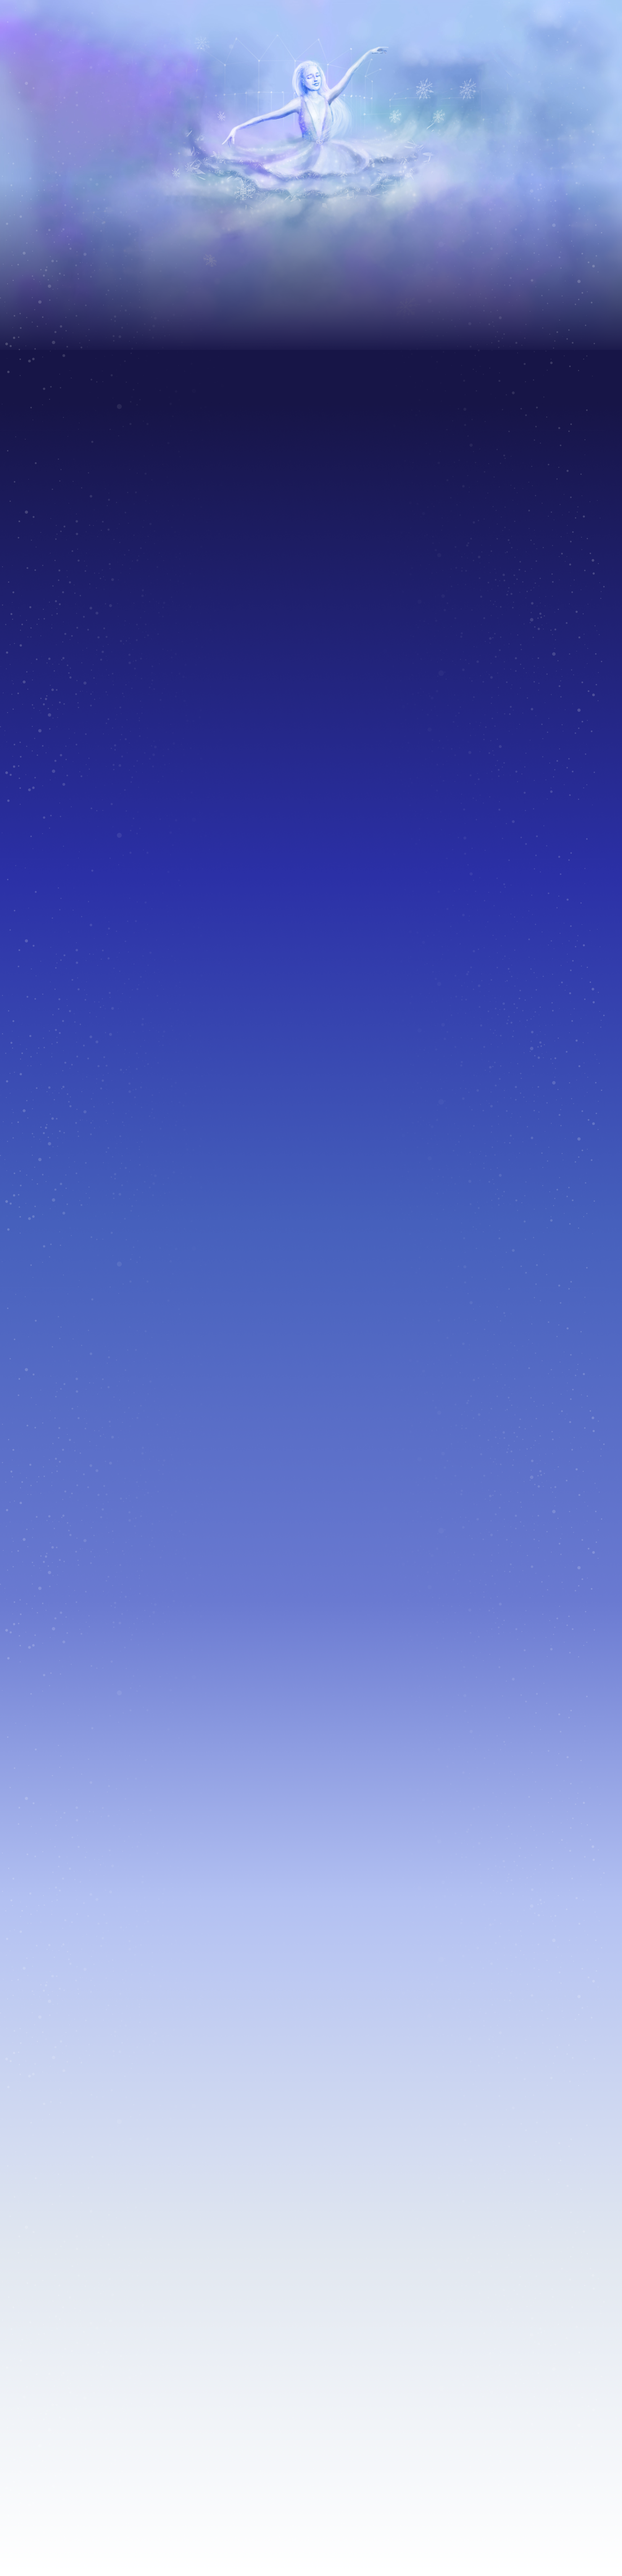
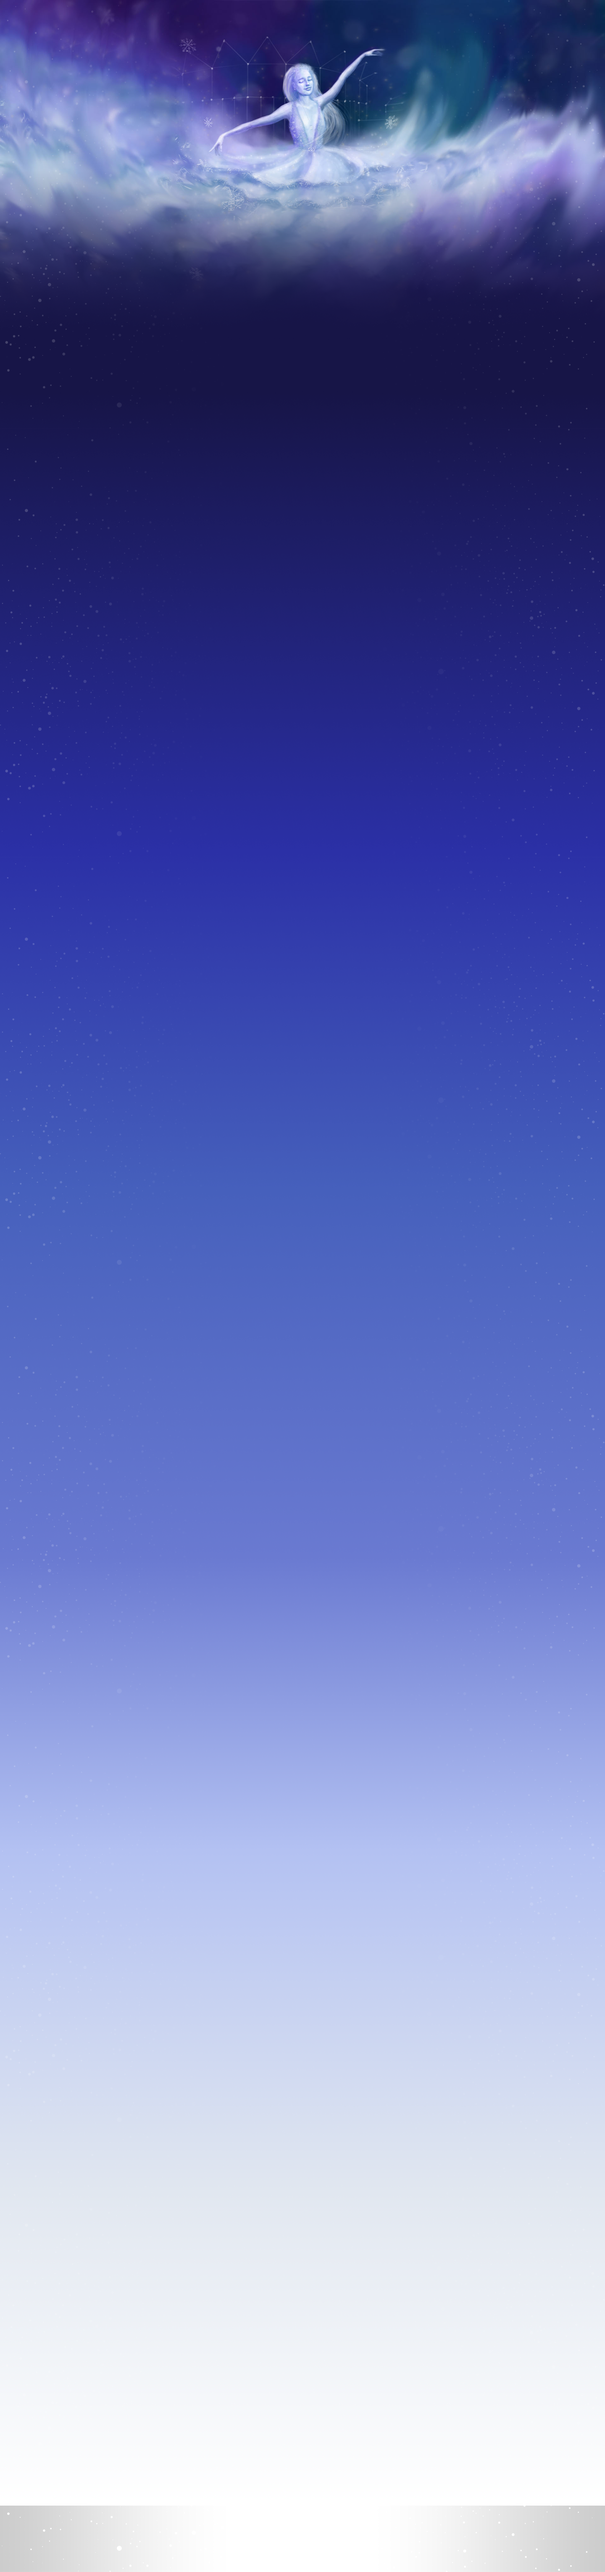
Feature snowing (#7)
* Add snowing effect

* Replace background with dark one

* Get back tablet background & change navbar color

Changed region(s): [[0.0, 0.0, 1.0, 0.156], [0.8125, 0.9675, 1.0, 1.0], [0.0, 0.9675, 0.1875, 1.0]]

diff --git a/src/App.tsx b/src/App.tsx
@@ -1,24 +1,25 @@
-import './App.css';
-import Fold from './components/layout/Fold';
-import Footer from './components/layout/footer/Footer';
-import HamburgerMenu from './components/layout/navbar/hamburgerMenu/HamburgerMenu';
-import Navbar from './components/layout/navbar/Navbar';
-import { WrapperMain } from './components/layout/wrapper/Wrapper.styled';
-import Contact from './sections/contact/Contact';
-import Events from './sections/events/Events';
-import Intro from './sections/intro/Intro';
-import Organisers from './sections/organisers/Organisers';
-import Partners from './sections/partners/Partners';
-import Prime from './sections/prime/Prime';
-import Countdown from './sections/countdown/Countdown';
-import Program from './sections/program/Program';
-import Tickets from './sections/tickets/Tickets';
-import { LteTablet } from './theme/MediaQueries';
+import "./App.css";
+import Fold from "./components/layout/Fold";
+import Footer from "./components/layout/footer/Footer";
+import HamburgerMenu from "./components/layout/navbar/hamburgerMenu/HamburgerMenu";
+import Navbar from "./components/layout/navbar/Navbar";
+import { WrapperMain } from "./components/layout/wrapper/Wrapper.styled";
+import Contact from "./sections/contact/Contact";
+import Events from "./sections/events/Events";
+import Intro from "./sections/intro/Intro";
+import Organisers from "./sections/organisers/Organisers";
+import Partners from "./sections/partners/Partners";
+import Prime from "./sections/prime/Prime";
+import Countdown from "./sections/countdown/Countdown";
+import Program from "./sections/program/Program";
+import Tickets from "./sections/tickets/Tickets";
+import { LteTablet } from "./theme/MediaQueries";
+import Snowing from "./components/snowing/Snowing";
 
 // import CookieConsent from 'react-cookie-consent';
 
-import reveal from './functions/reveal';
-window.addEventListener('scroll', reveal);
+import reveal from "./functions/reveal";
+window.addEventListener("scroll", reveal);
 
 function App() {
   return (
@@ -27,11 +28,12 @@ function App() {
       <Fold />
       <LteTablet>
         <HamburgerMenu
-          pageWrapId={'page-wrap'}
-          outerContainerId={'outer-container'}
+          pageWrapId={"page-wrap"}
+          outerContainerId={"outer-container"}
         />
       </LteTablet>
       <Navbar />
+      <Snowing />
       <Prime />
       <Countdown endTime='2023-03-03T15:00:00' />
       <Intro />

diff --git a/src/sections/contact/Contact.styled.tsx b/src/sections/contact/Contact.styled.tsx
@@ -1,5 +1,5 @@
-import styled from 'styled-components';
-import theme from '../../theme/theme';
+import styled from "styled-components";
+import theme from "../../theme/theme";
 
 export const WrapperContact = styled.div`
   display: flex;
@@ -14,7 +14,8 @@ export const WrapperContactItem = styled.div`
   line-height: 1.5em;
   gap: 2em;
   font-size: ${theme.fontSizeElements.paragraphGteTablet}px;
-  color: ${theme.colors.secondary};
+
+  color: ${theme.colors.dark};
   @media screen and (${theme.breakpoints.gteDesktopLgQuery}) {
     color: ${theme.colors.ice};
   }
@@ -45,7 +46,7 @@ export const ContactHalf = styled.span`
 export const ContactItem = styled.div``;
 
 export const ContactAction = styled.a`
-  color: ${theme.colors.secondary};
+  color: ${theme.colors.dark};
   @media screen and (${theme.breakpoints.gteDesktopLgQuery}) {
     color: ${theme.colors.ice};
   }

diff --git a/src/main.tsx b/src/main.tsx
@@ -1,10 +1,10 @@
-import React from 'react'
-import ReactDOM from 'react-dom/client'
-import App from './App'
-import './index.css'
+import React from "react";
+import ReactDOM from "react-dom/client";
+import App from "./App";
+import "./index.css";
 
-ReactDOM.createRoot(document.getElementById('root') as HTMLElement).render(
+ReactDOM.createRoot(document.getElementById("root") as HTMLElement).render(
   <React.StrictMode>
     <App />
-  </React.StrictMode>,
-)
+  </React.StrictMode>
+);

diff --git a/src/components/snowing/Snowing.tsx b/src/components/snowing/Snowing.tsx
@@ -1,0 +1,22 @@
+import Snowfall from "react-snowfall";
+import snowLogo from "../../assets/images/snowflake.png";
+
+const snowflake = document.createElement("img");
+snowflake.src = snowLogo;
+const snowingImg = [snowflake];
+
+const Snowing = () => {
+  return (
+    <>
+      <Snowfall
+        snowflakeCount={150}
+        radius={[5, 20]}
+        speed={[0.1, 0.3]}
+        wind={[0.1, 0.3]}
+        images={snowingImg}
+      />
+    </>
+  );
+};
+
+export default Snowing;

diff --git a/src/components/layout/wrapper/Wrapper.styled.tsx b/src/components/layout/wrapper/Wrapper.styled.tsx
@@ -1,6 +1,6 @@
-import styled, { css } from 'styled-components';
-import theme from '../../../theme/theme';
-import backgroundWinter from '../../../assets/images/backgroundWinter.png';
+import styled, { css } from "styled-components";
+import theme from "../../../theme/theme";
+import backgroundWinter from "../../../assets/images/backgroundWinter.png";
 
 export const WrapperMain = styled.main`
   font-family: ${theme.fonts.monsterRegular};

diff --git a/src/components/layout/navbar/Navbar.styled.tsx b/src/components/layout/navbar/Navbar.styled.tsx
@@ -25,9 +25,9 @@ export const MenuItem = styled.a`
   text-decoration: none;
   font-family: ${theme.fonts.heading};
   font-size: ${theme.fontSizeElements.h4}px;
-  color: ${theme.colors.secondary};
+  color: ${theme.colors.primary};
   transition: ${theme.animation.transitionBasic};
   &:hover {
-    color: ${theme.colors.secondary};
+    color: ${theme.colors.primary};
   }
 `;

diff --git a/src/theme/theme.tsx b/src/theme/theme.tsx
@@ -39,7 +39,6 @@ const theme = {
   colors: {
     primary: "white",
     background: "lightblue",
-    secondary: "black",
     ice: "#B3CEF2",
     dark: "#171547",
   },
